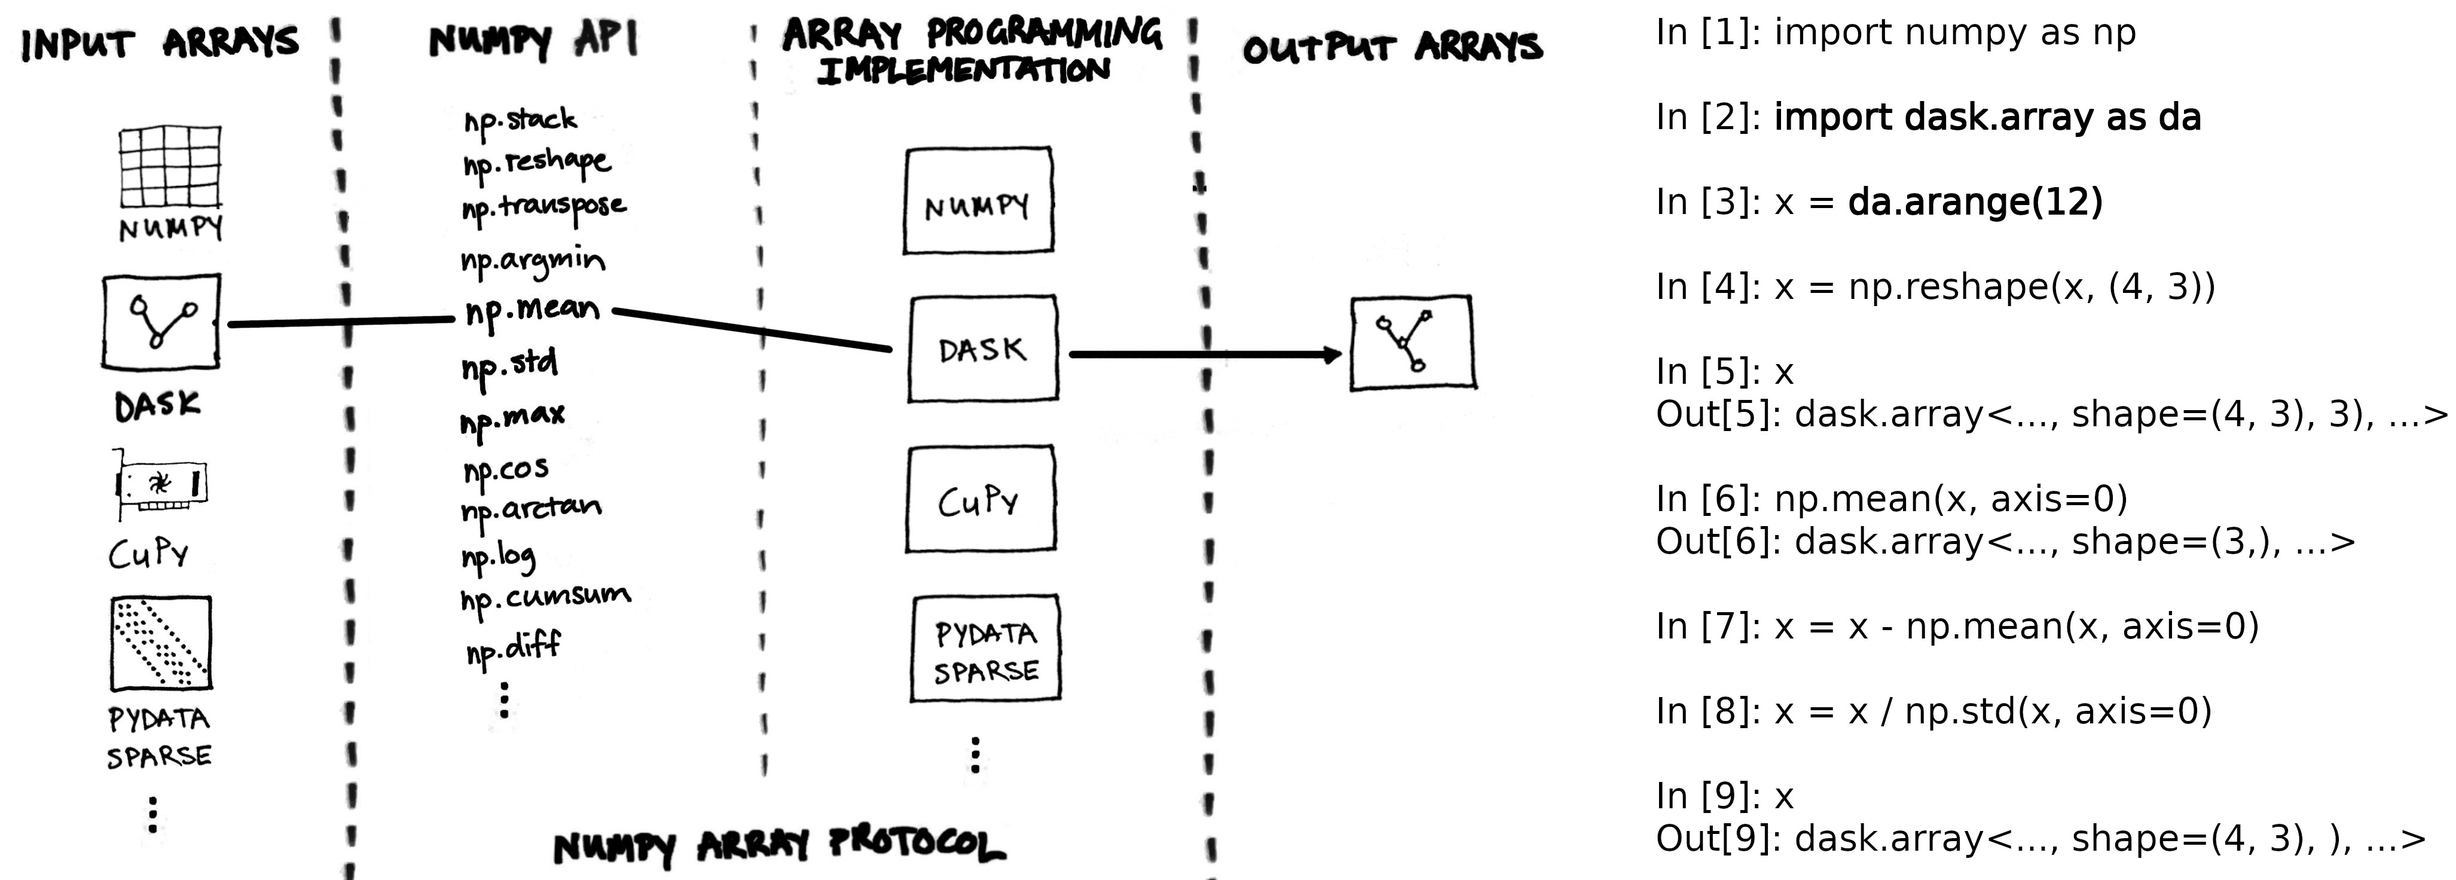
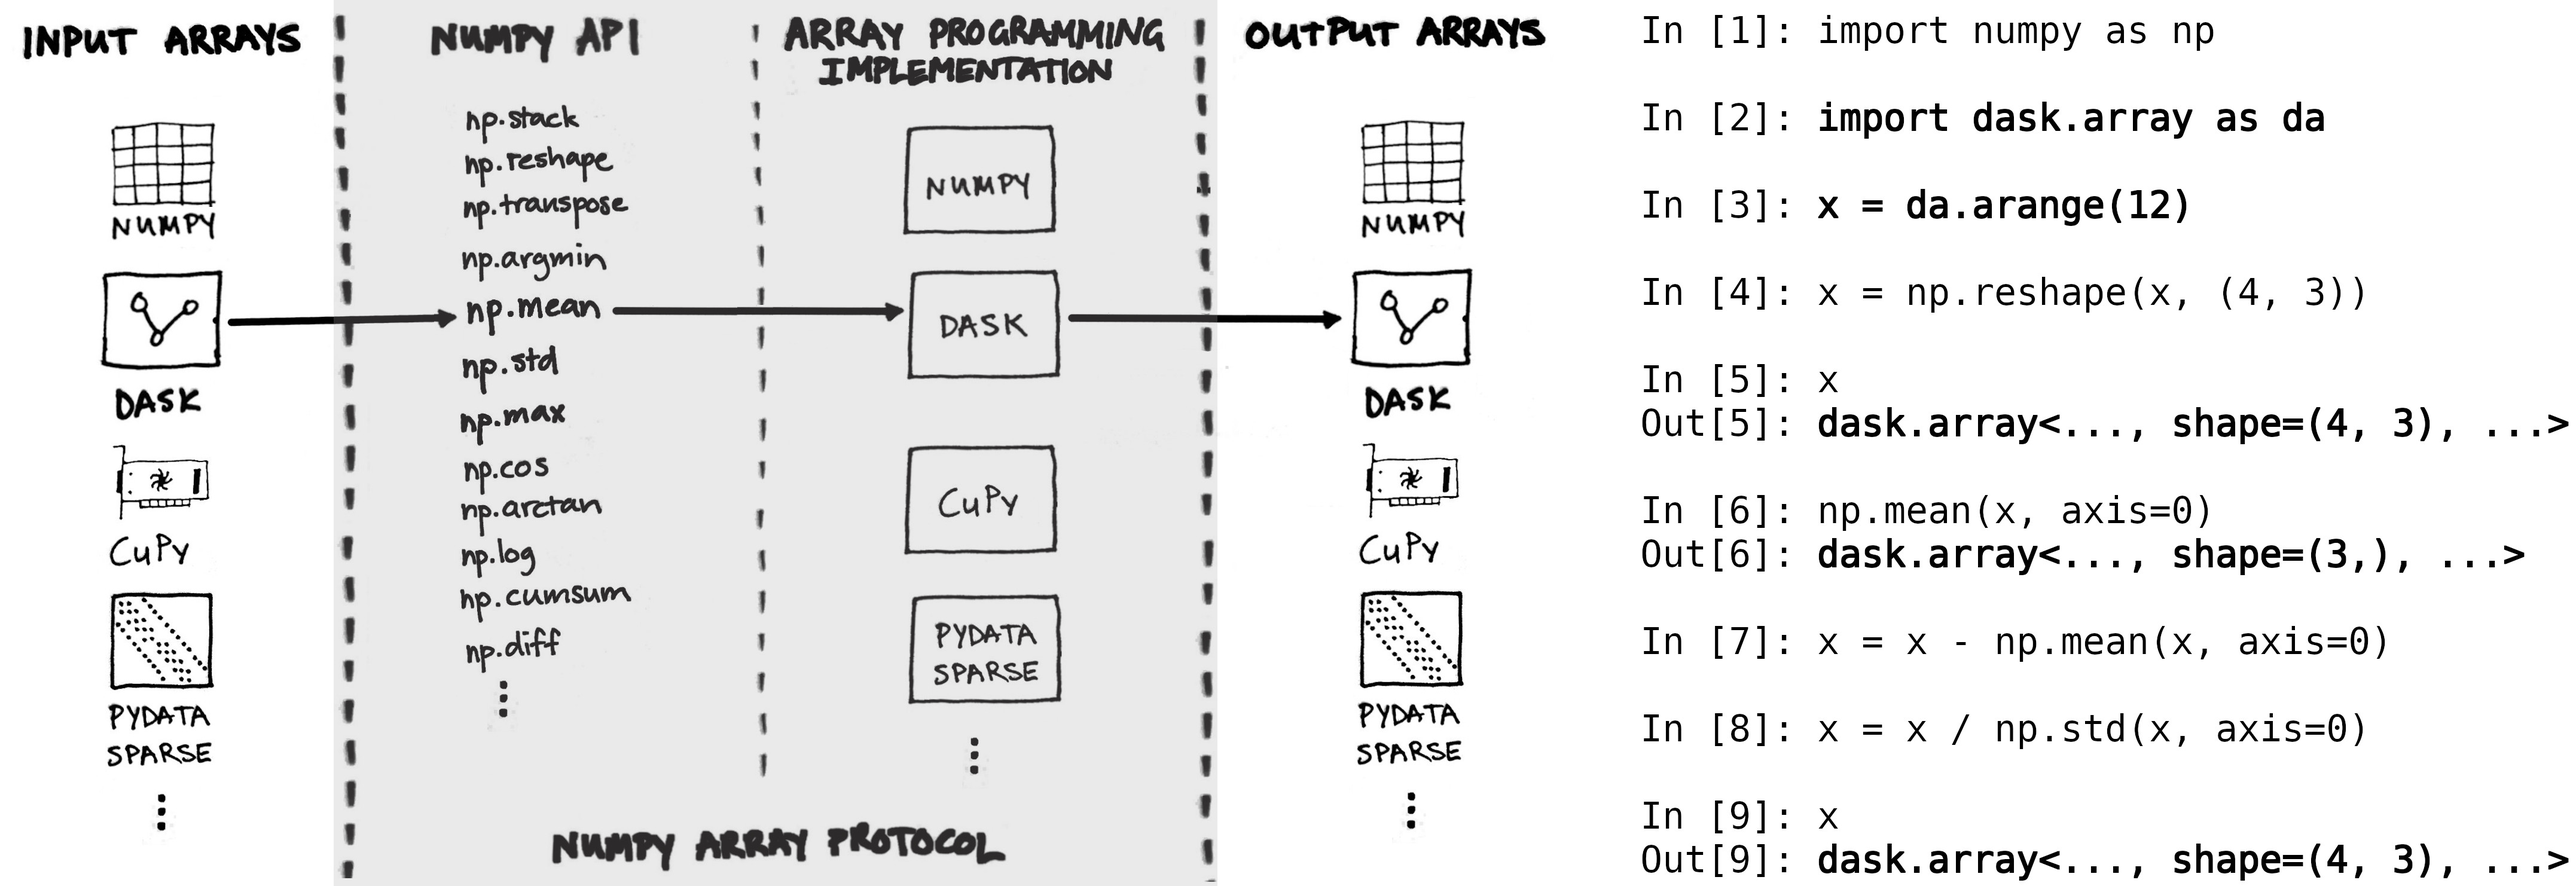
Update Fig 1 and 3

diff --git a/static/sketches/fig3.py b/static/sketches/fig3.py
@@ -1,0 +1,49 @@
+DejaVu Sans Mono
+Size: 62
+
+# Fig. 3
+
+In [1]: import numpy as np
+
+In [2]: import dask.array as da
+
+In [3]: x = da.arange(12)
+
+In [4]: x = np.reshape(x, (4, 3))
+
+In [5]: x
+Out[5]: dask.array<..., shape=(4, 3), ...>
+
+In [6]: np.mean(x, axis=0)
+Out[6]: dask.array<..., shape=(3,), ...>
+
+In [7]: x = x - np.mean(x, axis=0)
+
+In [8]: x = x / np.std(x, axis=0)
+
+In [9]: x
+Out[9]: dask.array<..., shape=(4, 3), ...>
+
+
+---------
+
+In [1]: import numpy as np
+
+In [2]: import dask.array as da
+
+In [3]: x = da.arange(12)
+
+In [4]: x = np.reshape(x, (4, 3))
+
+In [5]: x
+Out[5]: dask.array<reshape, shape=(4, 3), dtype=int64, chunksize=(4, 3), chunktype=numpy.ndarray>
+
+In [6]: np.mean(x, axis=0)
+Out[6]: dask.array<mean_agg-aggregate, shape=(3,), dtype=float64, chunksize=(3,), chunktype=numpy.ndarray>
+
+In [7]: x = x - np.mean(x, axis=0)
+
+In [8]: x = x / np.std(x, axis=0)
+
+In [9]: x
+Out[9]: dask.array<truediv, shape=(4, 3), dtype=float64, chunksize=(4, 3), chunktype=numpy.ndarray>

diff --git a/static/sketches/fig1.py b/static/sketches/fig1.py
@@ -1,0 +1,41 @@
+DejaVu Sans Mono
+Size: 62
+
+# Fig. 1
+
+In [1]: import numpy as np
+
+In [2]: x = np.arange(12)
+
+In [3]: x = x.reshape(4, 3)
+
+In [4]: x
+Out[4]:
+array([[ 0,  1,  2],
+       [ 3,  4,  5],
+       [ 6,  7,  8],
+       [ 9, 10, 11]])
+
+In [5]: np.mean(x, axis=0)
+Out[5]: array([4.5, 5.5, 6.5])
+
+In [6]: x = x - np.mean(x, axis=0)
+
+In [7]: np.std(x, axis=0)
+Out[7]: array([3.35, 3.35, 3.35])
+
+In [8]: x = x / np.std(x, axis=0)
+
+In [9]: x
+Out[9]:
+array([[-1.34, -1.34, -1.34],
+       [-0.45, -0.45, -0.45],
+       [ 0.45,  0.45,  0.45],
+       [ 1.34,  1.34,  1.34]])
+
+--------
+
+array([[-1.34, -1.34164079, -1.34164079],
+       [-0.45 , -0.4472136 , -0.4472136 ],
+       [ 0.45 ,  0.4472136 ,  0.4472136 ],
+       [ 1.34,  1.34164079,  1.34164079]])

diff --git a/body.tex b/body.tex
@@ -11,10 +11,6 @@ This briefly caused the two communities to diverge, until
 and NumArray \cite{oliphant2006guide}.
 
 % KJM: I moved this here to get the placement right 
-% RG: minor comment on the example code: would be better to not copy IPython
-%     oddities but align output on brackets and In/Out on ":"
-% KJM: agreed
-% FIXME we should figure out if we want to keep working on the figures in this format or not
 \begin{figure*}[h]
   \centering
   \includegraphics[width=\textwidth]{static/sketches/array-concepts}   
